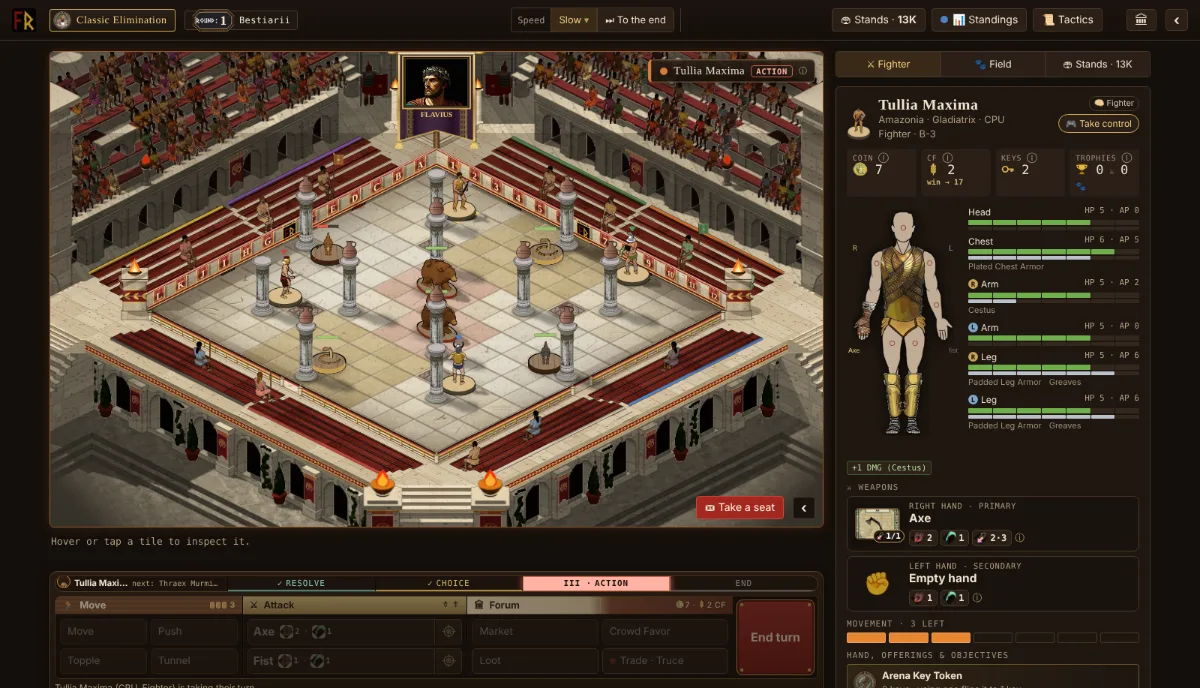
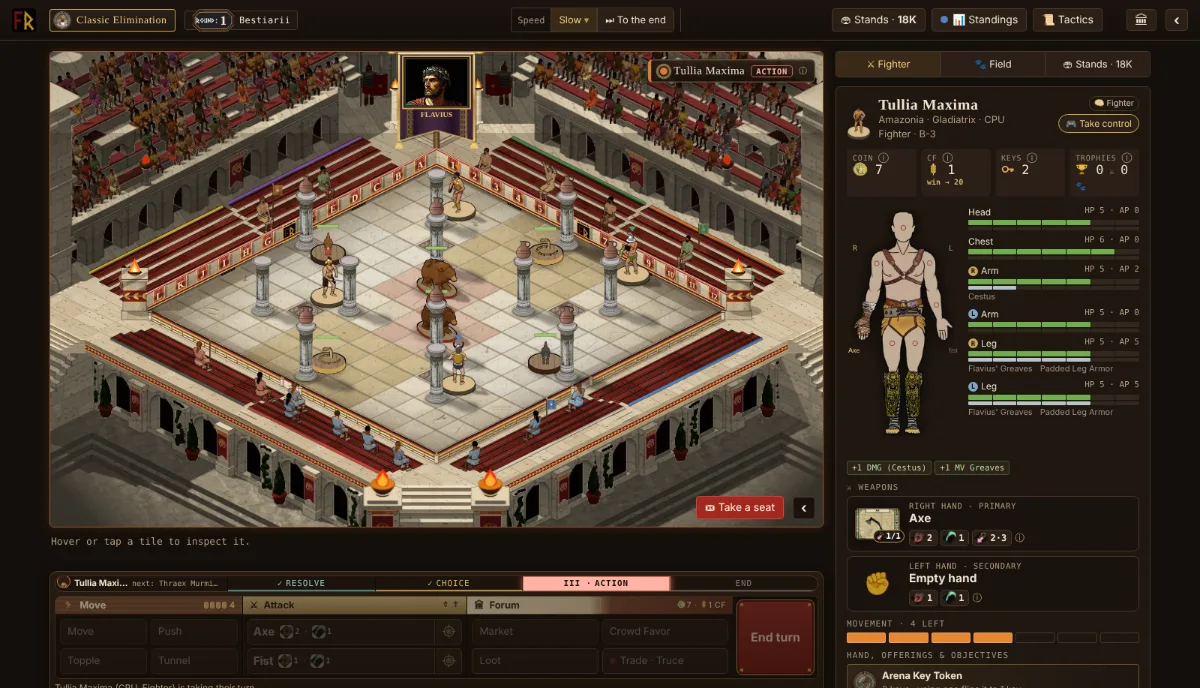
v1.15a Mercy for small houses: half-price blood money + no fame loss for a death under fame 18 (431-v115adeath, his 1a 2a) [full]
Claude-Session: https://claude.ai/code/session_01BLtNGuDrMd265uhsDUPs5S

diff --git a/assets/lang_fr.js b/assets/lang_fr.js
@@ -1,4 +1,4 @@
-/* lang_fr — GENERATED by tools/i18n/mkdict.js from tools/i18n/fr/*.json; edit the parts, not this file. 18410 entries. */
+/* lang_fr — GENERATED by tools/i18n/mkdict.js from tools/i18n/fr/*.json; edit the parts, not this file. 18414 entries. */
 window.LANG_PACK={l:"fr",d:{
 "\">special · bigger purse, stranger rules</span>":"\">spécial · bourse plus grosse, règles plus étranges</span>",
 "\"A great lanista does not just train fighters — he builds a name.\"":"« Un grand lanista ne se contente pas d'entraîner des combattants — il se bâtit un nom. »",
@@ -5581,6 +5581,7 @@ window.LANG_PACK={l:"fr",d:{
 "Manager: Superbus Week with its own card and review, rivalry week locked, a roster cap of 15, loan asks shown as loans, Vulso writes through your Recruiter":"Manager : la Semaine Superbus avec sa propre carte et son bilan, semaine de rivalité verrouillée, plafond de 15 à l'effectif, demandes de prêt affichées comme des prêts, Vulso écrit par ton Recruteur",
 "Manager: a council of six advisors with faces":"Manager : un conseil de six conseillers avec des visages",
 "Manager: a council of six advisors with faces — they sign their letters":"Manager : un conseil de six conseillers avec des visages — ils signent leurs lettres",
+"Manager: a house under fame 18 buys back a condemned fighter at half price, and a death costs it no fame":"Manager : une maison sous 18 de renommée rachète un combattant condamné à moitié prix, et une mort ne lui coûte aucune renommée",
 "Manager: a perk tree and standing orders; the lanista’s hours are gone":"Manager : un arbre d'atouts et des ordres permanents ; les heures du lanista disparaissent",
 "Manager: a standings podium, each week’s Acta kept in the Season tab, trait cards with their grades":"Manager : un podium du classement, l'Acta de chaque semaine gardé dans l'onglet Saison, des cartes de traits avec leurs notes",
 "Manager: a trade and loan deadline after week 8, the Superbus roster frozen at the deadline; rival houses make offers for a reason you can read, with the weekly cost":"Manager : une date limite de transferts et de prêts après la semaine 8, l’effectif du Superbus figé à cette date ; les maisons rivales font des offres pour une raison lisible, avec le coût hebdomadaire",
@@ -5707,6 +5708,7 @@ window.LANG_PACK={l:"fr",d:{
 "Mercator Felix":"Mercator Felix",
 "Merchant":"Marchand",
 "Mercy":"Pitié",
+"Mercy for small houses":"Clémence pour les petites maisons",
 "Message the room":"Message à la salle",
 "Metal":"Métal",
 "Metals":"Métaux",
@@ -11418,6 +11420,7 @@ window.LANG_PACK={l:"fr",d:{
 "arena · v1.14a":"arena · v1.14a",
 "arena · v1.14b":"arena · v1.14b",
 "arena · v1.15":"arena · v1.15",
+"arena · v1.15a":"arena · v1.15a",
 "arenas closed":"arènes fermées",
 "arguing with the usher":"en dispute avec le placeur",
 "arm lost":"bras perdu",
@@ -12038,6 +12041,7 @@ window.LANG_PACK={l:"fr",d:{
 "haggling in the market":"en train de marchander au marché",
 "half":"moitié",
 "half pace on the bench":"à demi-rythme sur le banc",
+"half price — a small house":"moitié prix : une petite maison",
 "hand over an item, coin or weapon":"donner un objet, des pièces ou une arme",
 "hands · head to legs":"mains · tête aux jambes",
 "hands, hips":"mains, hanches",

diff --git a/assets/lang_ja.js b/assets/lang_ja.js
@@ -1,4 +1,4 @@
-/* lang_ja — GENERATED by tools/i18n/mkdict.js from tools/i18n/ja/*.json; edit the parts, not this file. 18410 entries. */
+/* lang_ja — GENERATED by tools/i18n/mkdict.js from tools/i18n/ja/*.json; edit the parts, not this file. 18414 entries. */
 window.LANG_PACK={l:"ja",d:{
 "\">special · bigger purse, stranger rules</span>":"\">特別 · 賞金が大きく、ルールが奇妙</span>",
 "\"A great lanista does not just train fighters — he builds a name.\"":"「偉大なLanistaは闘士を鍛えるだけではない — 名を築くのだ。」",
@@ -5581,6 +5581,7 @@ window.LANG_PACK={l:"ja",d:{
 "Manager: Superbus Week with its own card and review, rivalry week locked, a roster cap of 15, loan asks shown as loans, Vulso writes through your Recruiter":"Manager：専用のカードと総括を持つSuperbus Week、ロックされたRivalry Week、ロースター上限15、貸出依頼は貸出として表示、Vulsoはスカウト係を通じて連絡",
 "Manager: a council of six advisors with faces":"マネージャー：顔のある6人の相談役会議",
 "Manager: a council of six advisors with faces — they sign their letters":"マネージャー:顔のある6人の顧問の評議会 — 手紙に署名します",
+"Manager: a house under fame 18 buys back a condemned fighter at half price, and a death costs it no fame":"Manager：名声18未満の一門は、処刑を宣告された戦士を半額で買い戻せ、死亡しても名声を失わない",
 "Manager: a perk tree and standing orders; the lanista’s hours are gone":"マネージャー：パークツリーと常設指示。lanistaの時間は廃止",
 "Manager: a standings podium, each week’s Acta kept in the Season tab, trait cards with their grades":"Manager：順位表の表彰台、各週のActaをシーズンタブに保存、評価付きの特性カード",
 "Manager: a trade and loan deadline after week 8, the Superbus roster frozen at the deadline; rival houses make offers for a reason you can read, with the weekly cost":"Manager：第8週以降はトレード・ローンの期限、Superbusのロスターは期限で固定。ライバルの家は理由の読めるオファーを出し、週ごとの費用も表示されます",
@@ -5707,6 +5708,7 @@ window.LANG_PACK={l:"ja",d:{
 "Mercator Felix":"Mercator Felix",
 "Merchant":"商人",
 "Mercy":"慈悲",
+"Mercy for small houses":"小さな一門に慈悲を",
 "Message the room":"ルームにメッセージ",
 "Metal":"金属",
 "Metals":"金属",
@@ -11418,6 +11420,7 @@ window.LANG_PACK={l:"ja",d:{
 "arena · v1.14a":"arena · v1.14a",
 "arena · v1.14b":"arena · v1.14b",
 "arena · v1.15":"arena · v1.15",
+"arena · v1.15a":"arena · v1.15a",
 "arenas closed":"闘技場閉鎖",
 "arguing with the usher":"案内係と言い争って",
 "arm lost":"腕を失った",
@@ -12038,6 +12041,7 @@ window.LANG_PACK={l:"ja",d:{
 "haggling in the market":"市場で値切って",
 "half":"半分",
 "half pace on the bench":"控えでは半分の速さ",
+"half price — a small house":"半額：小さな一門",
 "hand over an item, coin or weapon":"品物、コイン、武器を渡す",
 "hands · head to legs":"手 · 頭から脚まで",
 "hands, hips":"手、腰",

diff --git a/assets/lang_it.js b/assets/lang_it.js
@@ -1,4 +1,4 @@
-/* lang_it — GENERATED by tools/i18n/mkdict.js from tools/i18n/it/*.json; edit the parts, not this file. 18410 entries. */
+/* lang_it — GENERATED by tools/i18n/mkdict.js from tools/i18n/it/*.json; edit the parts, not this file. 18414 entries. */
 window.LANG_PACK={l:"it",d:{
 "\">special · bigger purse, stranger rules</span>":"\">speciale · premio più ricco, regole più strane</span>",
 "\"A great lanista does not just train fighters — he builds a name.\"":"\"Un grande lanista non addestra soltanto combattenti — costruisce un nome.\"",
@@ -5581,6 +5581,7 @@ window.LANG_PACK={l:"it",d:{
 "Manager: Superbus Week with its own card and review, rivalry week locked, a roster cap of 15, loan asks shown as loans, Vulso writes through your Recruiter":"Manager: la Settimana Superbus con una carta e un resoconto propri, settimana della rivalità bloccata, tetto di 15 al roster, le richieste di prestito mostrate come prestiti, Vulso scrive tramite il tuo Reclutatore",
 "Manager: a council of six advisors with faces":"Manager: un consiglio di sei consiglieri con un volto",
 "Manager: a council of six advisors with faces — they sign their letters":"Manager: un consiglio di sei consiglieri con un volto — firmano le loro lettere",
+"Manager: a house under fame 18 buys back a condemned fighter at half price, and a death costs it no fame":"Manager: una casa con meno di 18 di fama riacquista un combattente condannato a metà prezzo, e una morte non le costa fama",
 "Manager: a perk tree and standing orders; the lanista’s hours are gone":"Manager: un albero dei vantaggi e ordini permanenti; le ore del Lanista non ci sono più",
 "Manager: a standings podium, each week’s Acta kept in the Season tab, trait cards with their grades":"Manager: un podio della classifica, l'Acta di ogni settimana conservata nella scheda Stagione, schede dei tratti con i loro voti",
 "Manager: a trade and loan deadline after week 8, the Superbus roster frozen at the deadline; rival houses make offers for a reason you can read, with the weekly cost":"Manager: una scadenza per scambi e prestiti dopo la settimana 8, il roster del Superbus congelato alla scadenza; le case rivali fanno offerte per un motivo leggibile, con il costo settimanale",
@@ -5707,6 +5708,7 @@ window.LANG_PACK={l:"it",d:{
 "Mercator Felix":"Mercator Felix",
 "Merchant":"Mercante",
 "Mercy":"Pietà",
+"Mercy for small houses":"Clemenza per le case piccole",
 "Message the room":"Scrivi alla stanza",
 "Metal":"Metallo",
 "Metals":"Metalli",
@@ -11418,6 +11420,7 @@ window.LANG_PACK={l:"it",d:{
 "arena · v1.14a":"arena · v1.14a",
 "arena · v1.14b":"arena · v1.14b",
 "arena · v1.15":"arena · v1.15",
+"arena · v1.15a":"arena · v1.15a",
 "arenas closed":"arene chiuse",
 "arguing with the usher":"a discutere con l'usciere",
 "arm lost":"braccio perso",
@@ -12038,6 +12041,7 @@ window.LANG_PACK={l:"it",d:{
 "haggling in the market":"a contrattare al mercato",
 "half":"metà",
 "half pace on the bench":"metà ritmo in panchina",
+"half price — a small house":"metà prezzo: una casa piccola",
 "hand over an item, coin or weapon":"consegna un oggetto, monete o un'arma",
 "hands · head to legs":"mani · testa e gambe",
 "hands, hips":"mani, fianchi",

diff --git a/assets/lang_es.js b/assets/lang_es.js
@@ -1,4 +1,4 @@
-/* lang_es — GENERATED by tools/i18n/mkdict.js from tools/i18n/es/*.json; edit the parts, not this file. 18410 entries. */
+/* lang_es — GENERATED by tools/i18n/mkdict.js from tools/i18n/es/*.json; edit the parts, not this file. 18414 entries. */
 window.LANG_PACK={l:"es",d:{
 "\">special · bigger purse, stranger rules</span>":"\">especial · premio mayor, reglas más raras</span>",
 "\"A great lanista does not just train fighters — he builds a name.\"":"\"Un gran lanista no solo entrena luchadores: se forja un nombre.\"",
@@ -5581,6 +5581,7 @@ window.LANG_PACK={l:"es",d:{
 "Manager: Superbus Week with its own card and review, rivalry week locked, a roster cap of 15, loan asks shown as loans, Vulso writes through your Recruiter":"Manager: la Semana Superbus con su propia carta y resumen, semana de rivalidad bloqueada, tope de plantel de 15, las peticiones de préstamo se muestran como préstamos, Vulso escribe a través de tu Reclutador",
 "Manager: a council of six advisors with faces":"Manager: un consejo de seis consejeros con rostro",
 "Manager: a council of six advisors with faces — they sign their letters":"Manager: un consejo de seis consejeros con rostro — firman sus cartas",
+"Manager: a house under fame 18 buys back a condemned fighter at half price, and a death costs it no fame":"Manager: una casa con menos de 18 de fama recompra a un luchador condenado a mitad de precio, y una muerte no le cuesta fama",
 "Manager: a perk tree and standing orders; the lanista’s hours are gone":"Manager: un árbol de ventajas y órdenes permanentes; se acabaron las horas del Lanista",
 "Manager: a standings podium, each week’s Acta kept in the Season tab, trait cards with their grades":"Manager: un podio de la clasificación, el Acta de cada semana guardada en la pestaña Temporada, tarjetas de rasgos con sus notas",
 "Manager: a trade and loan deadline after week 8, the Superbus roster frozen at the deadline; rival houses make offers for a reason you can read, with the weekly cost":"Manager: fecha límite de traspasos y préstamos tras la semana 8, el plantel del Superbus congelado en esa fecha; las casas rivales hacen ofertas por un motivo que puedes leer, con el coste semanal",
@@ -5707,6 +5708,7 @@ window.LANG_PACK={l:"es",d:{
 "Mercator Felix":"Mercator Felix",
 "Merchant":"Mercader",
 "Mercy":"Piedad",
+"Mercy for small houses":"Piedad para las casas pequeñas",
 "Message the room":"Escribir a la sala",
 "Metal":"Metal",
 "Metals":"Metales",
@@ -11418,6 +11420,7 @@ window.LANG_PACK={l:"es",d:{
 "arena · v1.14a":"arena · v1.14a",
 "arena · v1.14b":"arena · v1.14b",
 "arena · v1.15":"arena · v1.15",
+"arena · v1.15a":"arena · v1.15a",
 "arenas closed":"arenas cerradas",
 "arguing with the usher":"discutiendo con el acomodador",
 "arm lost":"brazo perdido",
@@ -12038,6 +12041,7 @@ window.LANG_PACK={l:"es",d:{
 "haggling in the market":"regateando en el mercado",
 "half":"mitad",
 "half pace on the bench":"a medio ritmo en el banquillo",
+"half price — a small house":"mitad de precio: una casa pequeña",
 "hand over an item, coin or weapon":"entrega un objeto, monedas o un arma",
 "hands · head to legs":"manos · cabeza a piernas",
 "hands, hips":"manos, caderas",

diff --git a/assets/lang_pt.js b/assets/lang_pt.js
@@ -1,4 +1,4 @@
-/* lang_pt — GENERATED by tools/i18n/mkdict.js from tools/i18n/pt/*.json; edit the parts, not this file. 18410 entries. */
+/* lang_pt — GENERATED by tools/i18n/mkdict.js from tools/i18n/pt/*.json; edit the parts, not this file. 18414 entries. */
 window.LANG_PACK={l:"pt",d:{
 "\">special · bigger purse, stranger rules</span>":"\">especial · prêmio maior, regras mais estranhas</span>",
 "\"A great lanista does not just train fighters — he builds a name.\"":"\"Um grande lanista não apenas treina lutadores — ele constrói um nome.\"",
@@ -5581,6 +5581,7 @@ window.LANG_PACK={l:"pt",d:{
 "Manager: Superbus Week with its own card and review, rivalry week locked, a roster cap of 15, loan asks shown as loans, Vulso writes through your Recruiter":"Manager: a Semana Superbus com carta e resumo próprios, semana da rivalidade travada, limite de 15 no elenco, pedidos de empréstimo mostrados como empréstimos, Vulso escreve por meio do seu Recrutador",
 "Manager: a council of six advisors with faces":"Manager: um conselho de seis conselheiros com rosto",
 "Manager: a council of six advisors with faces — they sign their letters":"Manager: um conselho de seis conselheiros com rostos — eles assinam suas cartas",
+"Manager: a house under fame 18 buys back a condemned fighter at half price, and a death costs it no fame":"Manager: uma casa com menos de 18 de fama recompra um lutador condenado pela metade do preço, e uma morte não lhe custa fama",
 "Manager: a perk tree and standing orders; the lanista’s hours are gone":"Manager: uma árvore de vantagens e ordens permanentes; as horas do Lanista acabaram",
 "Manager: a standings podium, each week’s Acta kept in the Season tab, trait cards with their grades":"Manager: um pódio da classificação, a Acta de cada semana guardada na aba Temporada, cartões de traços com suas notas",
 "Manager: a trade and loan deadline after week 8, the Superbus roster frozen at the deadline; rival houses make offers for a reason you can read, with the weekly cost":"Manager: um prazo de trocas e empréstimos após a semana 8, com o elenco do Superbus congelado no prazo; casas rivais fazem ofertas por um motivo que você pode ler, com o custo semanal",
@@ -5707,6 +5708,7 @@ window.LANG_PACK={l:"pt",d:{
 "Mercator Felix":"Mercator Felix",
 "Merchant":"Mercador",
 "Mercy":"Clemência",
+"Mercy for small houses":"Clemência para casas pequenas",
 "Message the room":"Mensagem para a sala",
 "Metal":"Metal",
 "Metals":"Metais",
@@ -11418,6 +11420,7 @@ window.LANG_PACK={l:"pt",d:{
 "arena · v1.14a":"arena · v1.14a",
 "arena · v1.14b":"arena · v1.14b",
 "arena · v1.15":"arena · v1.15",
+"arena · v1.15a":"arena · v1.15a",
 "arenas closed":"arenas fechadas",
 "arguing with the usher":"discutindo com o porteiro",
 "arm lost":"braço perdido",
@@ -12038,6 +12041,7 @@ window.LANG_PACK={l:"pt",d:{
 "haggling in the market":"pechinchando no mercado",
 "half":"metade",
 "half pace on the bench":"metade do ritmo no banco",
+"half price — a small house":"metade do preço: uma casa pequena",
 "hand over an item, coin or weapon":"entregar um item, moedas ou uma arma",
 "hands · head to legs":"mãos · cabeça às pernas",
 "hands, hips":"mãos, quadris",

diff --git a/assets/lang_de.js b/assets/lang_de.js
@@ -1,4 +1,4 @@
-/* lang_de — GENERATED by tools/i18n/mkdict.js from tools/i18n/de/*.json; edit the parts, not this file. 18410 entries. */
+/* lang_de — GENERATED by tools/i18n/mkdict.js from tools/i18n/de/*.json; edit the parts, not this file. 18414 entries. */
 window.LANG_PACK={l:"de",d:{
 "\">special · bigger purse, stranger rules</span>":"\">Sonderkampf · größeres Preisgeld, seltsamere Regeln</span>",
 "\"A great lanista does not just train fighters — he builds a name.\"":"„Ein großer Lanista trainiert nicht nur Kämpfer — er baut sich einen Namen.“",
@@ -5581,6 +5581,7 @@ window.LANG_PACK={l:"de",d:{
 "Manager: Superbus Week with its own card and review, rivalry week locked, a roster cap of 15, loan asks shown as loans, Vulso writes through your Recruiter":"Manager: die Superbus-Woche mit eigener Karte und Rückblick, Rivalitätswoche gesperrt, Kader-Obergrenze von 15, Leihanfragen als Leihen angezeigt, Vulso schreibt über deinen Anwerber",
 "Manager: a council of six advisors with faces":"Manager: ein Rat aus sechs Beratern mit Gesichtern",
 "Manager: a council of six advisors with faces — they sign their letters":"Manager: ein Rat aus sechs Beratern mit Gesichtern — sie unterschreiben ihre Briefe",
+"Manager: a house under fame 18 buys back a condemned fighter at half price, and a death costs it no fame":"Manager: Ein Haus unter Ruhm 18 kauft einen verurteilten Kämpfer zum halben Preis zurück, und ein Tod kostet es keinen Ruhm",
 "Manager: a perk tree and standing orders; the lanista’s hours are gone":"Manager: ein Talentbaum und Daueraufträge; die Lanista-Stunden sind weg",
 "Manager: a standings podium, each week’s Acta kept in the Season tab, trait cards with their grades":"Manager: ein Podium für die Tabelle, das Acta jeder Woche im Saison-Tab, Eigenschaftskarten mit ihren Noten",
 "Manager: a trade and loan deadline after week 8, the Superbus roster frozen at the deadline; rival houses make offers for a reason you can read, with the weekly cost":"Manager: eine Frist für Trades und Leihen nach Woche 8, der Superbus-Kader wird zur Frist eingefroren; rivalisierende Häuser machen Angebote mit einem lesbaren Grund und den Wochenkosten",
@@ -5707,6 +5708,7 @@ window.LANG_PACK={l:"de",d:{
 "Mercator Felix":"Mercator Felix",
 "Merchant":"Händler",
 "Mercy":"Gnade",
+"Mercy for small houses":"Gnade für kleine Häuser",
 "Message the room":"Nachricht an den Raum",
 "Metal":"Metall",
 "Metals":"Metalle",
@@ -11418,6 +11420,7 @@ window.LANG_PACK={l:"de",d:{
 "arena · v1.14a":"arena · v1.14a",
 "arena · v1.14b":"arena · v1.14b",
 "arena · v1.15":"arena · v1.15",
+"arena · v1.15a":"arena · v1.15a",
 "arenas closed":"Arenen geschlossen",
 "arguing with the usher":"im Streit mit dem Platzanweiser",
 "arm lost":"Arm verloren",
@@ -12038,6 +12041,7 @@ window.LANG_PACK={l:"de",d:{
 "haggling in the market":"feilschen auf dem Markt",
 "half":"halb",
 "half pace on the bench":"halbes Tempo auf der Bank",
+"half price — a small house":"halber Preis: ein kleines Haus",
 "hand over an item, coin or weapon":"einen Gegenstand, Münzen oder eine Waffe übergeben",
 "hands · head to legs":"Hände · Kopf bis Beine",
 "hands, hips":"Hände, Hüften",

diff --git a/assets/lang_zh.js b/assets/lang_zh.js
@@ -1,4 +1,4 @@
-/* lang_zh — GENERATED by tools/i18n/mkdict.js from tools/i18n/zh/*.json; edit the parts, not this file. 18409 entries. */
+/* lang_zh — GENERATED by tools/i18n/mkdict.js from tools/i18n/zh/*.json; edit the parts, not this file. 18413 entries. */
 window.LANG_PACK={l:"zh",d:{
 "\">special · bigger purse, stranger rules</span>":"\">特别赛 · 奖金更多，规则更怪</span>",
 "\"A great lanista does not just train fighters — he builds a name.\"":"「伟大的lanista不只是训练斗士——他是在铸就一个名号。」",
@@ -5581,6 +5581,7 @@ window.LANG_PACK={l:"zh",d:{
 "Manager: Superbus Week with its own card and review, rivalry week locked, a roster cap of 15, loan asks shown as loans, Vulso writes through your Recruiter":"Manager：Superbus周有了专属卡牌和回顾，宿敌周被锁定，阵容上限15人，借人请求按借调显示，Vulso通过你的招募官来信",
 "Manager: a council of six advisors with faces":"经理模式：六位有面孔的顾问团",
 "Manager: a council of six advisors with faces — they sign their letters":"经理模式：六位有面孔的顾问组成的顾问团——他们会在信上署名",
+"Manager: a house under fame 18 buys back a condemned fighter at half price, and a death costs it no fame":"Manager：名望低于18的家族可半价赎回被判死刑的角斗士，且阵亡不损失名望",
 "Manager: a perk tree and standing orders; the lanista’s hours are gone":"经理模式：天赋树和常规指令；lanista的时间取消了",
 "Manager: a standings podium, each week’s Acta kept in the Season tab, trait cards with their grades":"Manager：排名领奖台、每周的Acta保存在赛季标签页、带评级的特质卡",
 "Manager: a trade and loan deadline after week 8, the Superbus roster frozen at the deadline; rival houses make offers for a reason you can read, with the weekly cost":"Manager：第8周后设交易与租借截止，Superbus名单在截止时冻结；对手家族会给出可读的报价理由及每周费用",
@@ -5707,6 +5708,7 @@ window.LANG_PACK={l:"zh",d:{
 "Mercator Felix":"Mercator Felix",
 "Merchant":"商人",
 "Mercy":"慈悲",
+"Mercy for small houses":"对小家族网开一面",
 "Message the room":"发消息到房间",
 "Metal":"金属",
 "Metals":"金属",
@@ -11418,6 +11420,7 @@ window.LANG_PACK={l:"zh",d:{
 "arena · v1.14a":"arena · v1.14a",
 "arena · v1.14b":"arena · v1.14b",
 "arena · v1.15":"arena · v1.15",
+"arena · v1.15a":"arena · v1.15a",
 "arenas closed":"座竞技场关闭",
 "arguing with the usher":"正和引座员争执",
 "arm lost":"手臂已失",
@@ -12038,6 +12041,7 @@ window.LANG_PACK={l:"zh",d:{
 "haggling in the market":"在市场上讨价还价",
 "half":"一半",
 "half pace on the bench":"在替补席上半速愈合",
+"half price — a small house":"半价：小家族",
 "hand over an item, coin or weapon":"交出一件物品、金币或武器",
 "hands · head to legs":"双手 · 头到腿",
 "hands, hips":"手、髋",

diff --git a/site/play.html b/site/play.html
@@ -65,10 +65,9 @@
           <div class="mode"><b>🌍 Online<span class="badge">new</span></b><span>Fight other lanistas live. In Ranked the Fate decides who lives; or watch, buy a ticket to the stands.</span></div>
         </div>
         <section class="whatsnew">
-          <h2>New in v1.15</h2>
+          <h2>New in v1.15a</h2>
           <ul>
-            <li>Settings regrouped into eight clear tabs: Play, Hints, Graphics, Crowd &amp; voices, Themes, Audio, Accessibility, Data &amp; saves.</li>
-            <li>Every choice keeps its value; phones get all eight tabs.</li>
+            <li>Manager: a house under fame 18 buys back a condemned fighter at half price, and a death costs it no fame.</li>
           </ul>
         </section>
     </main>
